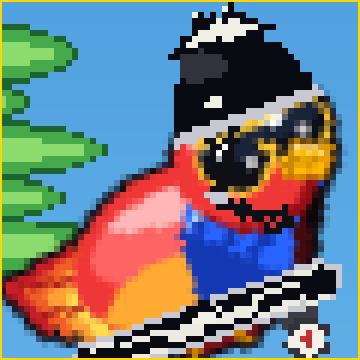
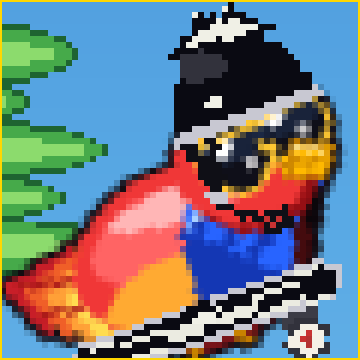
SKATEBOARD helmet: revert to original N4 (drop the 3-px lower strap)
Previous commit applied N4 + a 3-px thicker lower strap. User
asked to use ORIGINAL N4 — all segments 2-px thick.

Also fixes a coordinate bug: live code used (pad + 8, rim_y) for
the front anchor (= surface x=12), but N4 in the iterator used
surface x=8 directly. Now matches N4 1-for-1:

  * front_anchor = (8, 20)
  * rear_anchor  = (4, 20)  — at the dome's left edge
  * junction     = (6, 30)  — left of the ear
  * chin clip    = (14, 37) — at Pip's chin
  * all strap segments at 2-px thickness

https://claude.ai/code/session_01Ms85cBEeRiAtxZBCNh5vN5

Changed region(s): [[0.4889, 0.3972, 0.7028, 0.5806], [0.6111, 0.3361, 0.6722, 0.4583], [0.7028, 0.5806, 0.7333, 0.6111]]

diff --git a/game/entities.py b/game/entities.py
@@ -1189,22 +1189,15 @@ class Bird:
         # Chinstrap — modelled after a real skate helmet (Triple 8 /
         # Pro-Tec). The V-junction sits "just below + slightly
         # forward of the ear" (BHSI fit rule). The strap path stays
-        # on Pip's red feathers, behind the sunglasses lens. The
-        # lower segment (junction → chin clip) is drawn 3 px thick
-        # for visibility — it's the part the eye reads as "the
-        # strap holding the helmet on".
+        # on Pip's red feathers, behind the sunglasses lens.
         #
         # Surface coords (anchor (+18, -10), drop=28 → world_y =
-        # surface_y - 35.5):
-        #   front_anchor = (pad+8, 20) = (12, 20) — on the rim
-        #   rear_anchor  = (pad+4, 20) = (8, 20)  — on the rim
-        #                                          (rear clamped to
-        #                                          the dome's left
-        #                                          edge so the strap
-        #                                          attaches visibly)
-        #   junction     = (6, 30) — adjuster at world y=-5.5,
-        #                            left of the ear
-        #   chin clip    = (14, 37) — chin at world y=+1.5
+        # surface_y - 35.5). Picked variant N4:
+        #   front_anchor = (8, 20)  — on the rim, well behind lens
+        #   rear_anchor  = (4, 20)  — on the rim's left edge
+        #                             (= helm pad, the dome edge)
+        #   junction     = (6, 30)  — V-junction below the ear
+        #   chin clip    = (14, 37) — at Pip's chin/throat
         OUT     = (15, 15, 22)
         CHROME  = (200, 200, 210)
         BUCKLE  = (200, 50, 50)
@@ -1212,16 +1205,14 @@ class Bird:
         # part of the helmet rather than a separate piece. The
         # clip's red body is the only chromatic accent.
         STRAP   = OUT
-        front_anchor = (pad + 8, pad + hh + 1)
-        rear_anchor  = (pad + 4, pad + hh + 1)
+        rim_y = pad + hh + 1
+        front_anchor = (8, rim_y)
+        rear_anchor  = (4, rim_y)
         junction     = (6, 30)
         clip_centre  = (14, 37)
-        # Upper V — two 2-px straps from rim to junction.
         pygame.draw.line(helm, STRAP, front_anchor, junction, 2)
         pygame.draw.line(helm, STRAP, rear_anchor,  junction, 2)
-        # Lower strap — 3 px thick so the bottom segment reads
-        # clearly as the chin-securing strap.
-        pygame.draw.line(helm, STRAP, junction, clip_centre, 3)
+        pygame.draw.line(helm, STRAP, junction, clip_centre, 2)
         # Plastic adjuster slider at the ear junction — tiny 3×2
         # body with a chrome outline.
         adj = pygame.Rect(junction[0] - 1, junction[1] - 1, 3, 2)
